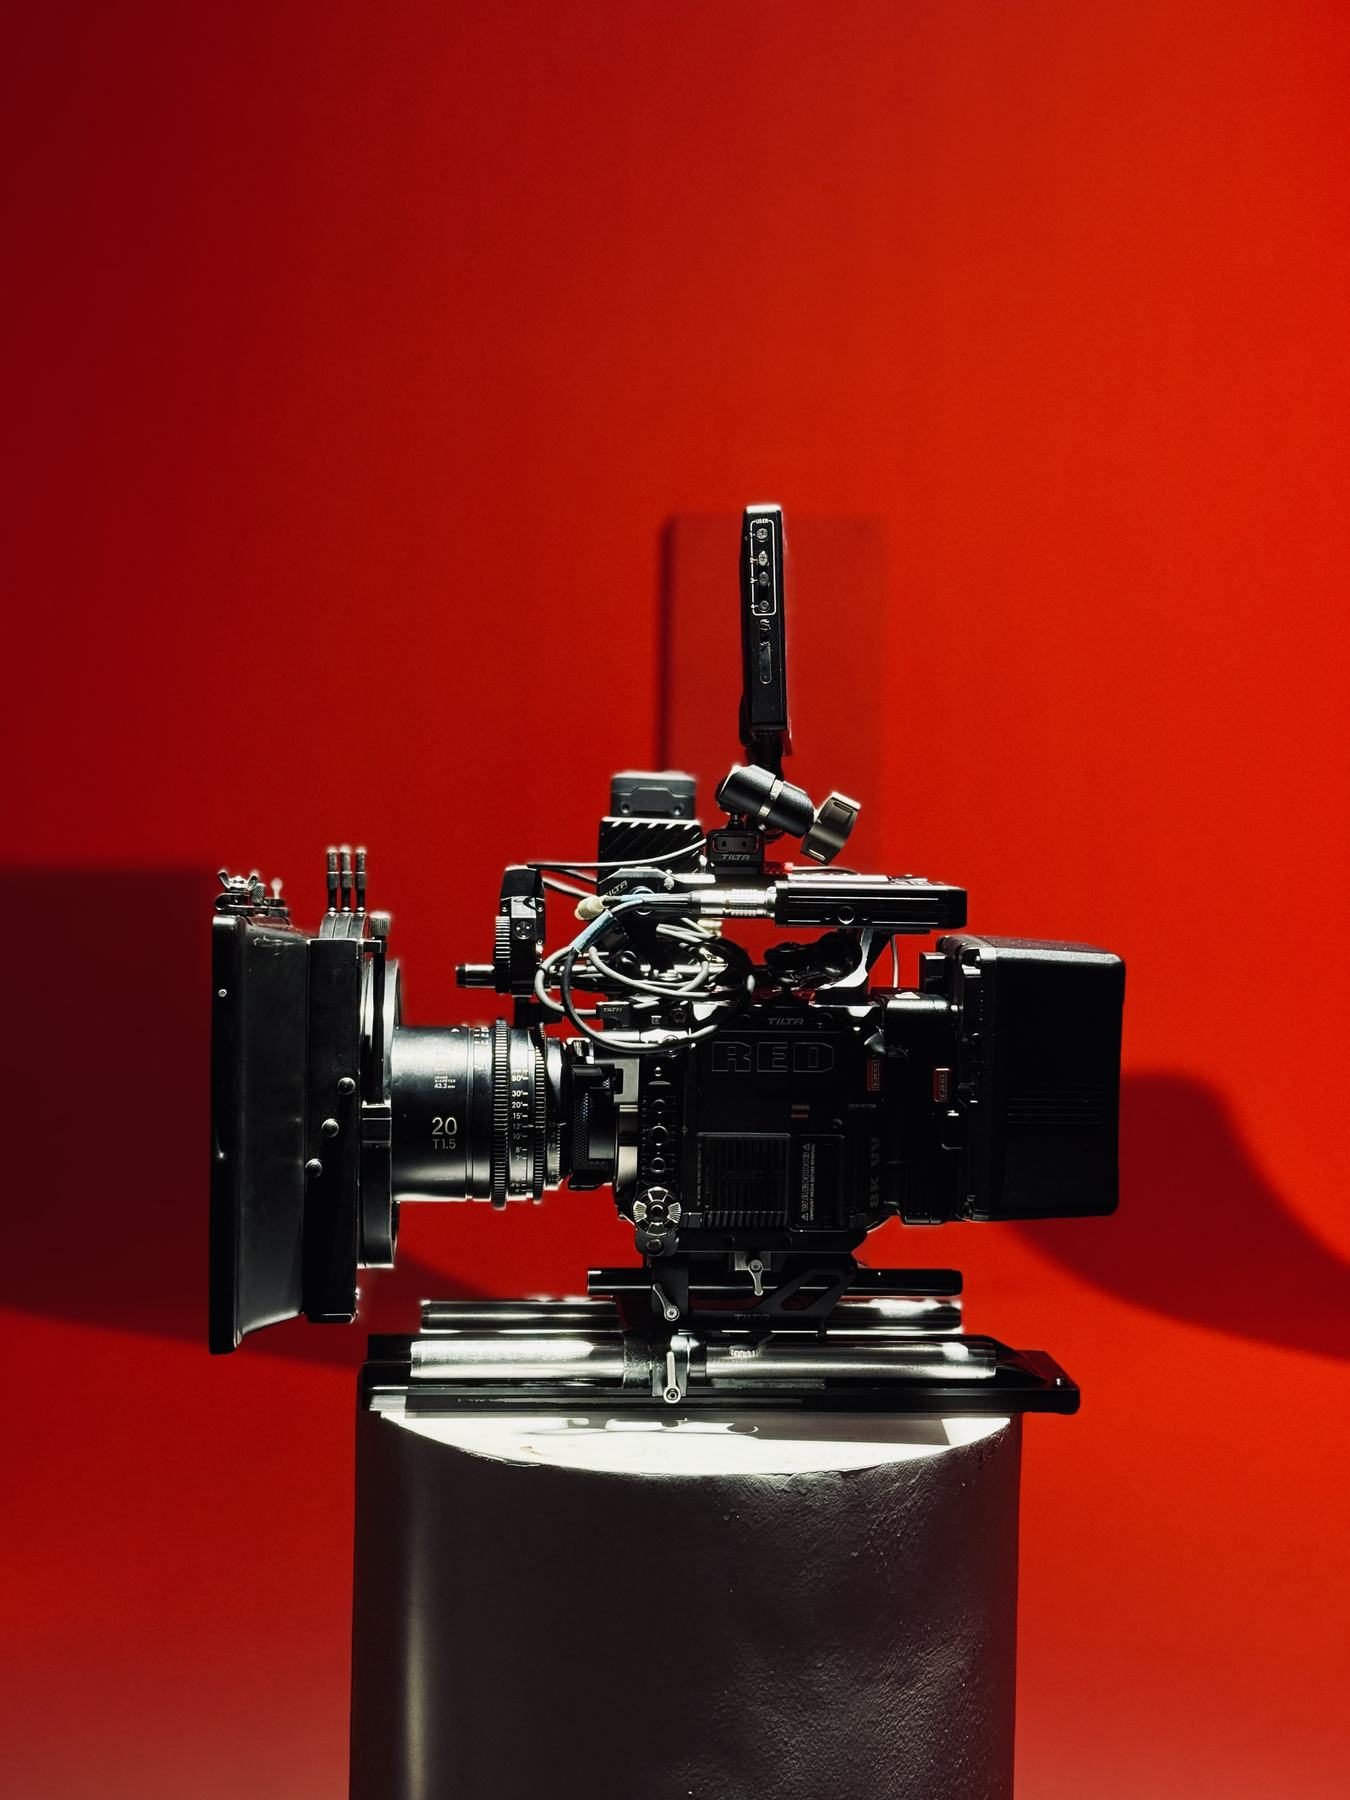
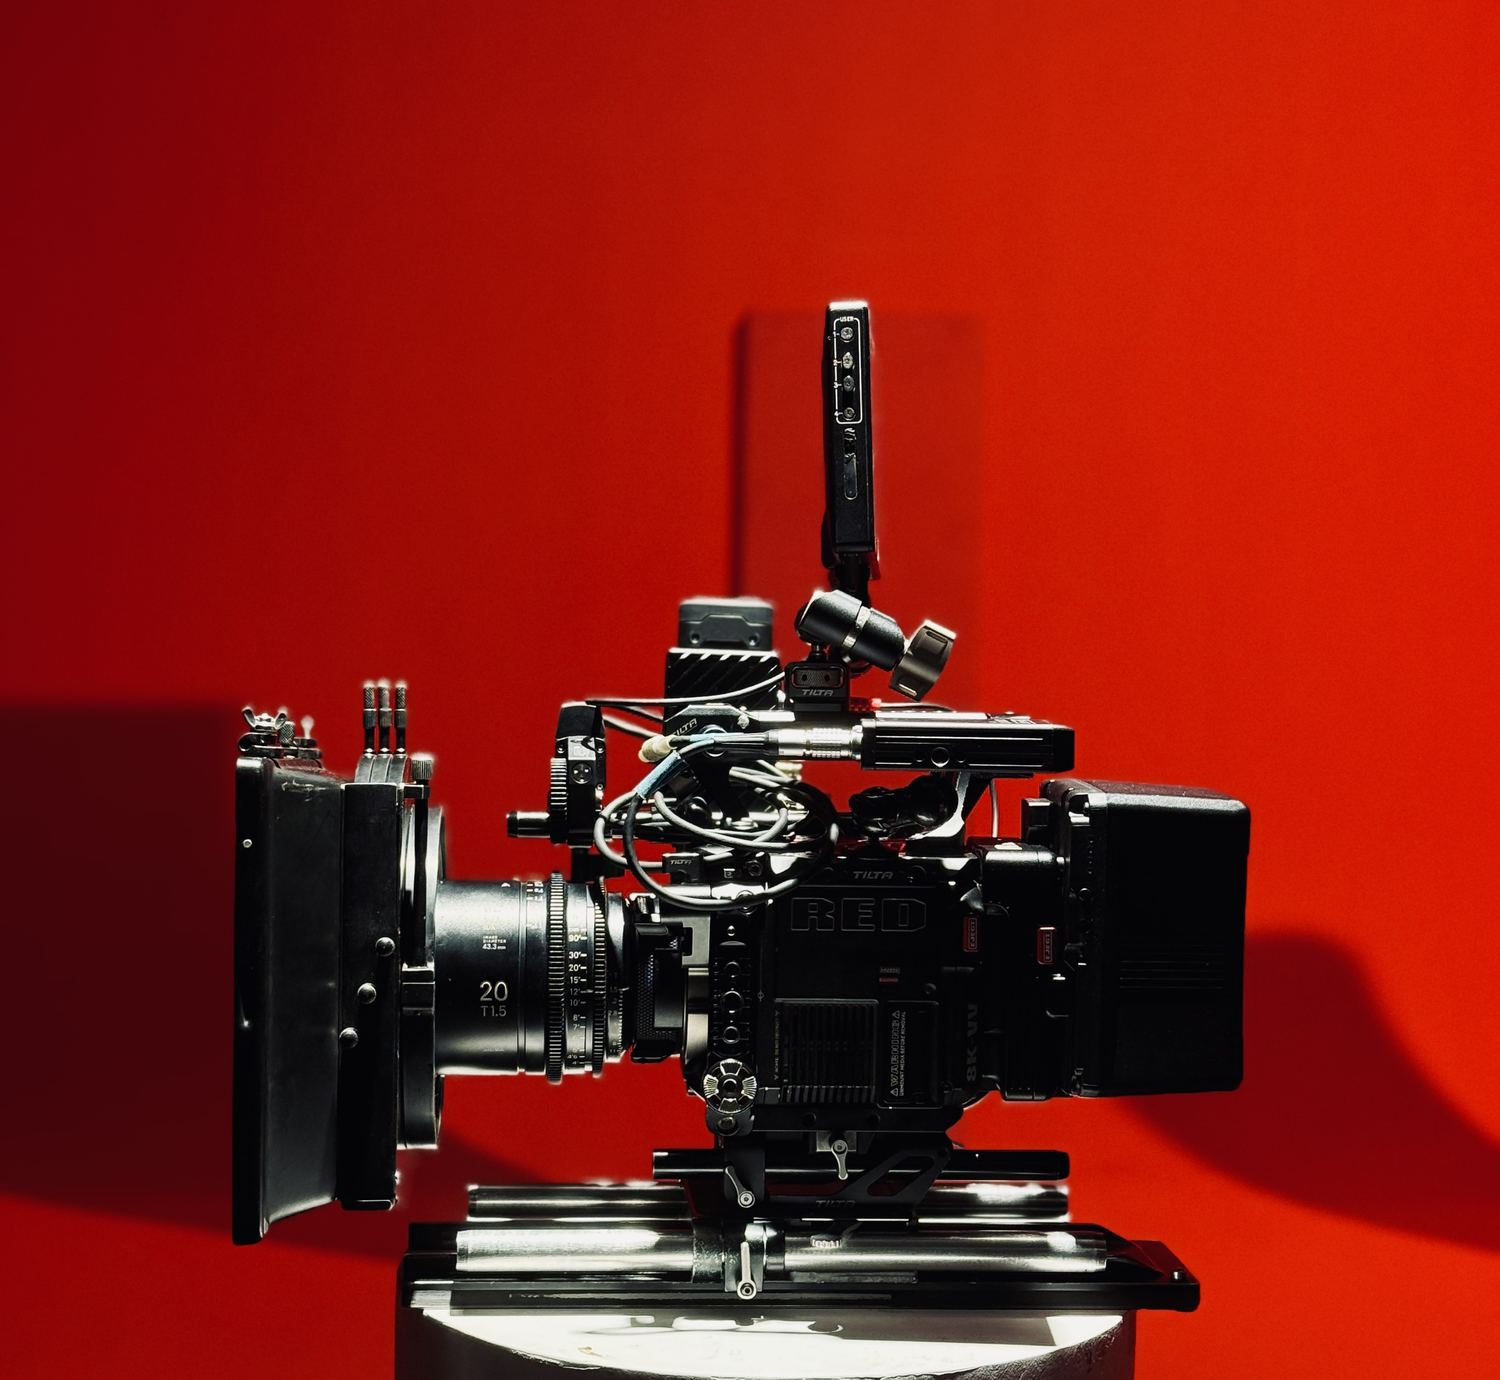
Add files via upload

diff --git a/index.html b/index.html
@@ -382,17 +382,17 @@
 
   /* ---------- work section banner — the instrument (right-anchored panel) ---------- */
   #work{position:relative}
-  .work-banner{position:absolute;top:0;right:0;width:52%;height:600px;overflow:hidden;z-index:0;pointer-events:none}
-  .work-banner img{width:100%;height:130%;object-fit:cover;object-position:center 30%;
-    filter:brightness(.68) saturate(.96);opacity:.9}
+  .work-banner{position:absolute;top:0;right:0;width:48%;aspect-ratio:1500/1380;overflow:hidden;z-index:0;pointer-events:none}
+  .work-banner img{width:100%;height:100%;object-fit:cover;object-position:center center;
+    filter:brightness(.72) saturate(.98);opacity:.92}
   .work-banner::after{content:"";position:absolute;inset:0;
-    background:linear-gradient(90deg,var(--black) 0%,rgba(10,10,11,.45) 22%,rgba(10,10,11,.06) 55%,rgba(10,10,11,.3) 100%),
-               linear-gradient(180deg,rgba(10,10,11,.3) 0%,rgba(10,10,11,0) 28%,rgba(10,10,11,0) 52%,rgba(10,10,11,.85) 82%,var(--black) 97%)}
+    background:linear-gradient(90deg,var(--black) 0%,rgba(10,10,11,.4) 16%,rgba(10,10,11,0) 42%,rgba(10,10,11,.18) 100%),
+               linear-gradient(180deg,rgba(10,10,11,.25) 0%,rgba(10,10,11,0) 20%,rgba(10,10,11,0) 58%,rgba(10,10,11,.8) 84%,var(--black) 98%)}
   #work .wrap{position:relative;z-index:1}
   .sec-head-banner{padding:7rem 0 3.6rem;min-height:400px;display:flex;flex-direction:column;justify-content:flex-end}
   .sec-head-banner h2,.sec-head-banner p,.sec-head-banner .num{max-width:46%}
   @media(max-width:900px){.sec-head-banner h2,.sec-head-banner p,.sec-head-banner .num{max-width:100%}
-    .work-banner{width:100%;height:420px}
+    .work-banner{width:100%;aspect-ratio:auto;height:400px}
     .work-banner img{opacity:.35}
     .sec-head-banner{min-height:280px;padding-top:5rem}}
 
